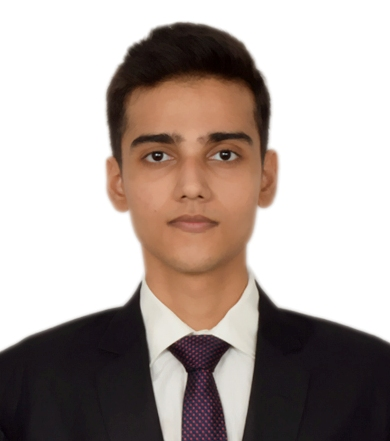
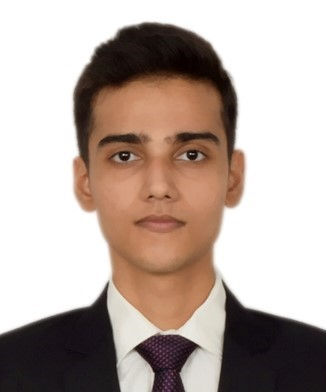
Image updated

Changed region(s): [[0.0, 0.0306, 1.0, 1.0]]

diff --git a/index.html b/index.html
@@ -32,7 +32,7 @@
 		<!-- Banner -->
 		
 			<section id="banner">
-			<p><img src="images/pic08.jpg" alt="" width="330" height="340"  style=" max-width:100%; max-height:90%; float: right"/></p>
+			<p><img src="images/pic08.jpeg" alt="" width="380" height="320"  style=" max-width:100%; max-height:90%; float: right"/></p>
 				<header>
 				
 					<h2>Hey, I am Harshvardhan!</h2>
